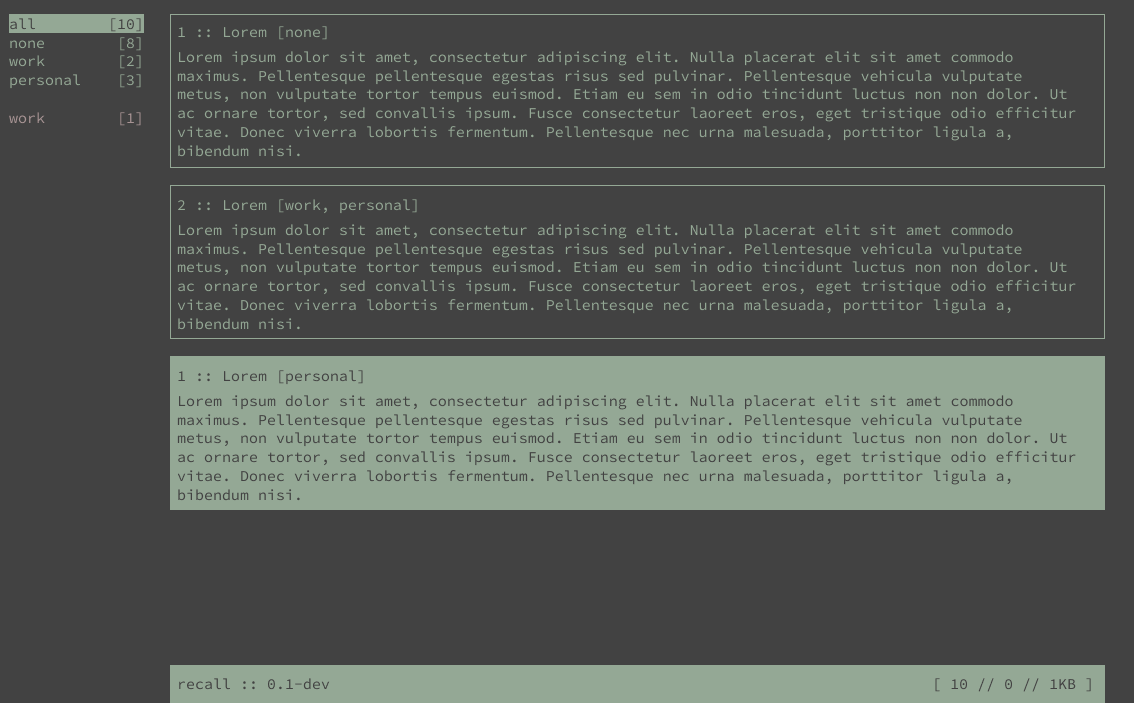
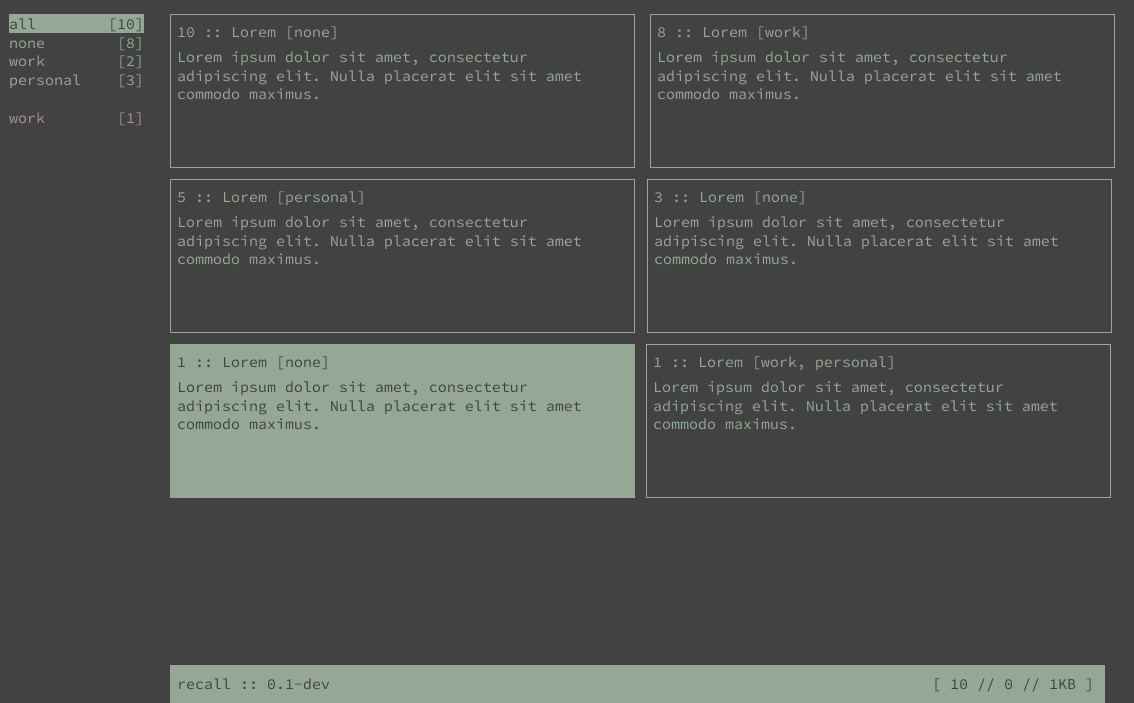
Change notes to be half width

Changed region(s): [[0.1543, 0.2688, 0.9877, 0.7468], [0.1543, 0.0299, 0.9568, 0.239], [0.1852, 0.0299, 0.3086, 0.0597]]

diff --git a/doc/usage/keybindings.rst b/doc/usage/keybindings.rst
@@ -4,8 +4,7 @@ Keybindings
 Navigation
 ----------
 
-- ``j`` :: move down the list
-- ``k`` :: move up the list
+- ``hjkl`` :: move left/down/up/right in the notes list
 - ``ctrl+j`` :: move down the categories list
 - ``ctrl+k`` :: move up the categories list
 - ``shift+j`` :: decrement a note's priority
